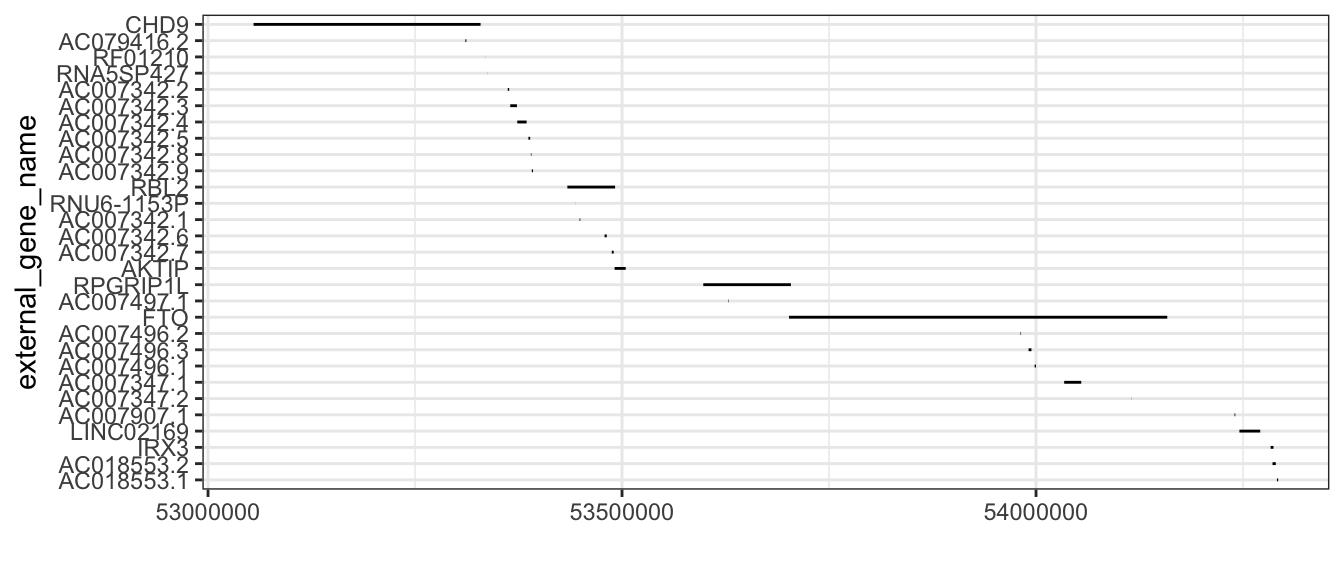
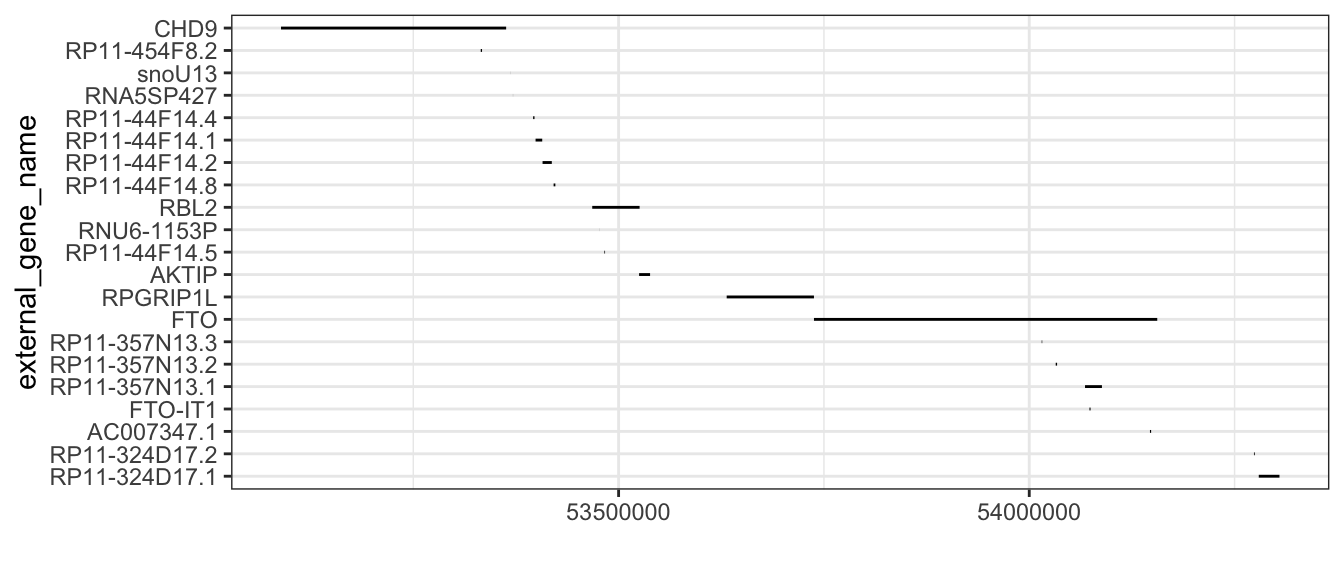
fixing

Changed region(s): [[0.0312, 0.0312, 1.0, 0.9062]]

diff --git a/2018/07/30/locuszoomplot/index.html b/2018/07/30/locuszoomplot/index.html
@@ -613,19 +613,19 @@ out.bm.gene</code></pre>
       mart = gene.ensembl)
 head(out.bm.genes.region)</code></pre>
 <pre><code>##   start_position end_position ensembl_gene_id external_gene_name
-## 1       53055033     53329150 ENSG00000177200               CHD9
-## 2       53310797     53311989 ENSG00000279589         AC079416.2
-## 3       53334562     53334664 ENSG00000238645            RF01210
-## 4       53337453     53337571 ENSG00000202193          RNA5SP427
-## 5       53362019     53363678 ENSG00000259962         AC007342.2
-## 6       53364982     53373083 ENSG00000260078         AC007342.3
-##                         gene_biotype
-## 1                     protein_coding
-## 2                                TEC
-## 3                             snoRNA
-## 4                               rRNA
-## 5             unprocessed_pseudogene
-## 6 transcribed_unprocessed_pseudogene</code></pre>
+## 1       53088945     53363062 ENSG00000177200               CHD9
+## 2       53332136     53333704 ENSG00000261056       RP11-454F8.2
+## 3       53368474     53368576 ENSG00000238645             snoU13
+## 4       53371365     53371483 ENSG00000202193          RNA5SP427
+## 5       53395931     53397590 ENSG00000259962       RP11-44F14.4
+## 6       53398894     53406995 ENSG00000260078       RP11-44F14.1
+##     gene_biotype
+## 1 protein_coding
+## 2     pseudogene
+## 3         snoRNA
+## 4           rRNA
+## 5     pseudogene
+## 6     pseudogene</code></pre>
 <p>We can plot <code>out.bm.genes.region</code> with a linerange plot, where each horizontal line represents one gene.</p>
 <pre class="r"><code>## rank gene names according to start position
 out.bm.genes.region &lt;- out.bm.genes.region %&gt;% mutate(external_gene_name = fct_reorder(external_gene_name, 

diff --git a/post/index.html b/post/index.html
@@ -100,6 +100,14 @@
         
         
             <li class="post-stub" itemprop="blogPost" itemscope="" itemtype="https://schema.org/BlogPosting">
+    <a href="/2018/07/30/locuszoomplot/" itemprop="url" title="Go to post detail">
+        <h4 class="post-stub-title" itemprop="name">Locuszoom plot of GWAS summary statistics</h4>
+        <time class="post-stub-date" datetime="2018-07-30">Published Mon, Jul 30, 2018</time>
+        
+    </a>
+</li>
+        
+            <li class="post-stub" itemprop="blogPost" itemscope="" itemtype="https://schema.org/BlogPosting">
     <a href="/2018/04/14/setting-up-the-blogdown-website/" itemprop="url" title="Go to post detail">
         <h4 class="post-stub-title" itemprop="name">Setting up the Blogdown website</h4>
         <time class="post-stub-date" datetime="2018-04-14">Published Sat, Apr 14, 2018</time>
@@ -111,14 +119,6 @@
     <a href="/2018/04/13/getting-started-with-encryption-of-documents/" itemprop="url" title="Go to post detail">
         <h4 class="post-stub-title" itemprop="name">Getting started with encryption of documents</h4>
         <time class="post-stub-date" datetime="2018-04-13">Published Fri, Apr 13, 2018</time>
-        
-    </a>
-</li>
-        
-            <li class="post-stub" itemprop="blogPost" itemscope="" itemtype="https://schema.org/BlogPosting">
-    <a href="/1/01/01/" itemprop="url" title="Go to post detail">
-        <h4 class="post-stub-title" itemprop="name"></h4>
-        <time class="post-stub-date" datetime="0001-01-01">Published Mon, Jan 1, 0001</time>
         
     </a>
 </li>

diff --git a/tags/index.html b/tags/index.html
@@ -116,8 +116,24 @@
 </li>
         
             <li class="post-stub">
+    <a href="/tags/data-visualisation/">
+        <h4 class="post-stub-title">Data Visualisation</h4>
+        
+        
+    </a>
+</li>
+        
+            <li class="post-stub">
     <a href="/tags/encryption/">
         <h4 class="post-stub-title">Encryption</h4>
+        
+        
+    </a>
+</li>
+        
+            <li class="post-stub">
+    <a href="/tags/ggplot2/">
+        <h4 class="post-stub-title">Ggplot2</h4>
         
         
     </a>
@@ -142,6 +158,14 @@
             <li class="post-stub">
     <a href="/tags/r/">
         <h4 class="post-stub-title">R</h4>
+        
+        
+    </a>
+</li>
+        
+            <li class="post-stub">
+    <a href="/tags/statgen/">
+        <h4 class="post-stub-title">Statgen</h4>
         
         
     </a>

diff --git a/index.html b/index.html
@@ -100,6 +100,16 @@
         
         
             <li class="post-stub">
+    <a href="/2018/07/30/locuszoomplot/">
+        <h4 class="post-stub-title">Locuszoom plot of GWAS summary statistics</h4>
+        
+            <p class="post-stub-description">using the `biomaRt` R-package</p>
+        
+        
+    </a>
+</li>
+        
+            <li class="post-stub">
     <a href="/2018/04/14/setting-up-the-blogdown-website/">
         <h4 class="post-stub-title">Setting up the Blogdown website</h4>
         
@@ -134,14 +144,6 @@
         <h4 class="post-stub-title">About</h4>
         
             <p class="post-stub-description">Things about me.</p>
-        
-        
-    </a>
-</li>
-        
-            <li class="post-stub">
-    <a href="/1/01/01/">
-        <h4 class="post-stub-title"></h4>
         
         
     </a>

diff --git a/tags/r/index.html b/tags/r/index.html
@@ -100,6 +100,26 @@
         
         
             <li class="post-stub">
+    <a href="/2018/07/30/locuszoomplot/">
+        <h4 class="post-stub-title">Locuszoom plot of GWAS summary statistics</h4>
+        
+            <p class="post-stub-description">using the `biomaRt` R-package</p>
+        
+        
+    </a>
+</li>
+        
+            <li class="post-stub">
+    <a href="/2018/07/30/locuszoomplot/">
+        <h4 class="post-stub-title">Locuszoom plot of GWAS summary statistics</h4>
+        
+            <p class="post-stub-description">using the `biomaRt` R-package</p>
+        
+        
+    </a>
+</li>
+        
+            <li class="post-stub">
     <a href="/2018/04/14/setting-up-the-blogdown-website/">
         <h4 class="post-stub-title">Setting up the Blogdown website</h4>
         
